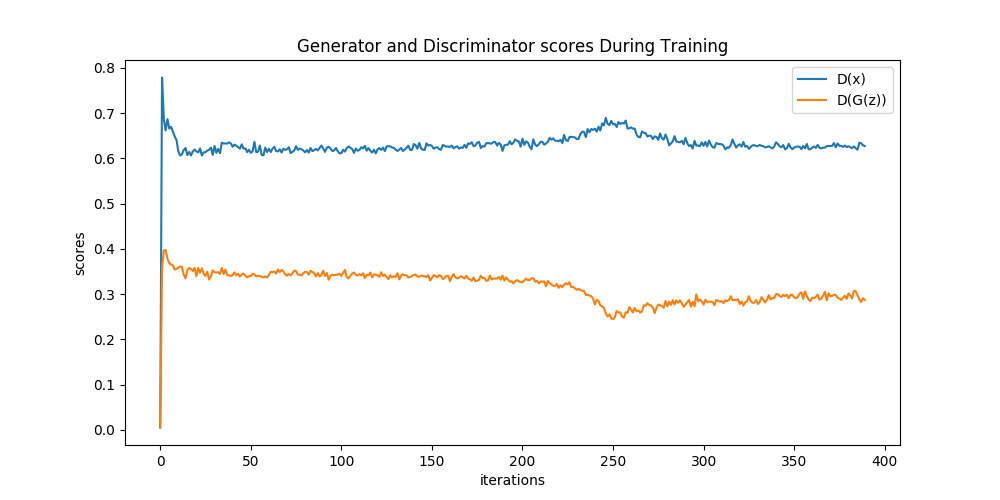
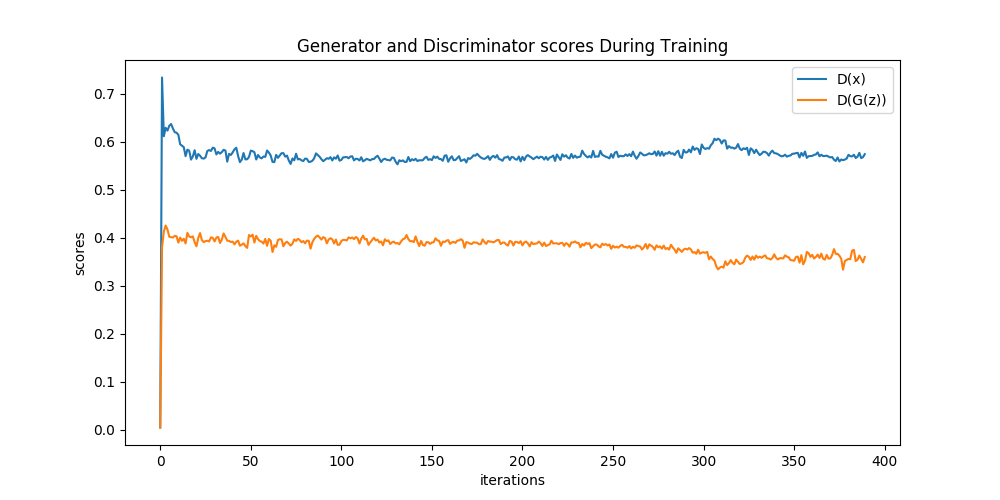
Modif : IT

diff --git a/W3_IT_aae/aae.py b/W3_IT_aae/aae.py
@@ -217,7 +217,7 @@ for epoch in range(opt.n_epochs):
 		#  Train Generator
 		# -----------------
 		
-		if current_d_g_z < 0.40 or epoch == 0:
+		if current_d_g_z < 0.30 or epoch == 0:
 			decoded_imgs = decoder(encoded_imgs)
 			
 			optimizer_G.zero_grad()
@@ -234,7 +234,7 @@ for epoch in range(opt.n_epochs):
 		#  Train Discriminator
 		# ---------------------
 		
-		if current_d_g_z > 0.40 or current_d_x < 0.60 or epoch == 0:
+		if current_d_g_z > 0.30 or current_d_x < 0.70 or epoch == 0:
 			optimizer_D.zero_grad()
 
 			# Measure discriminator's ability to classify real from generated samples
